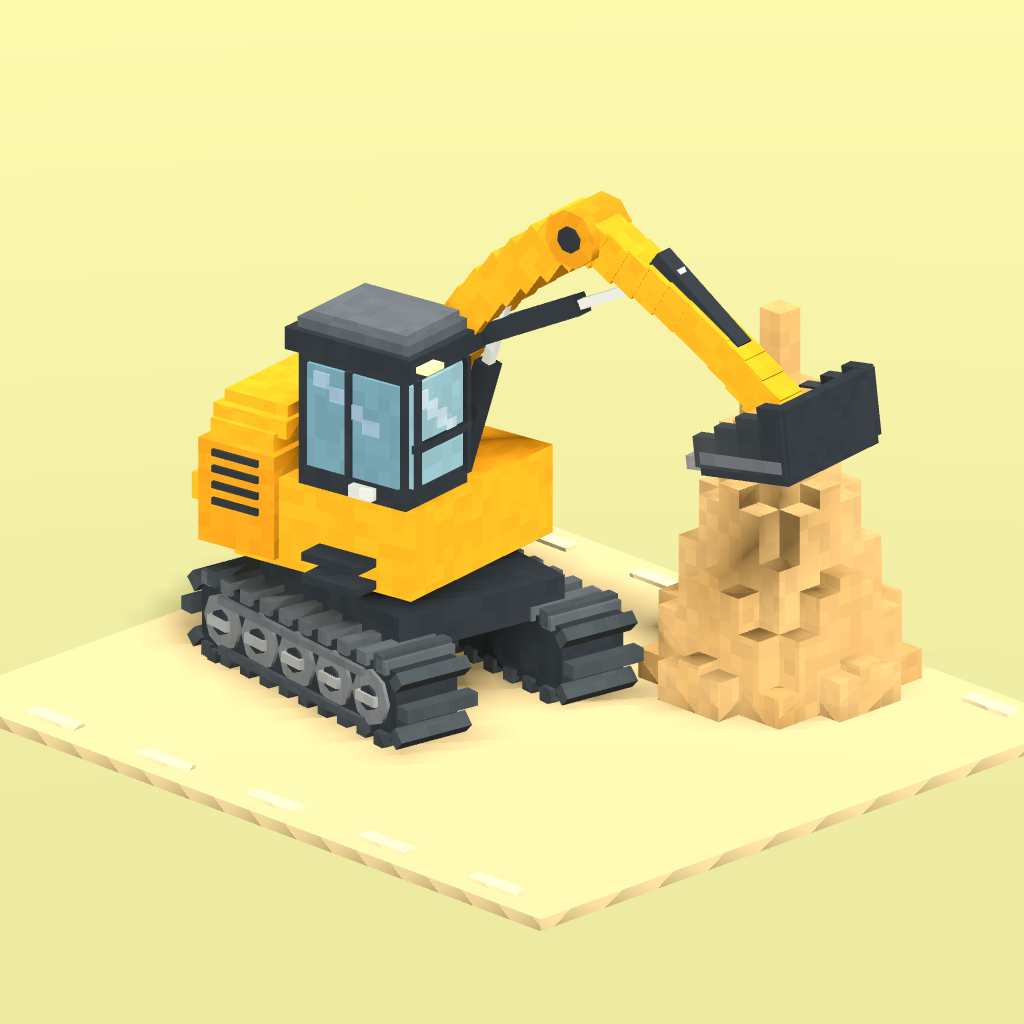
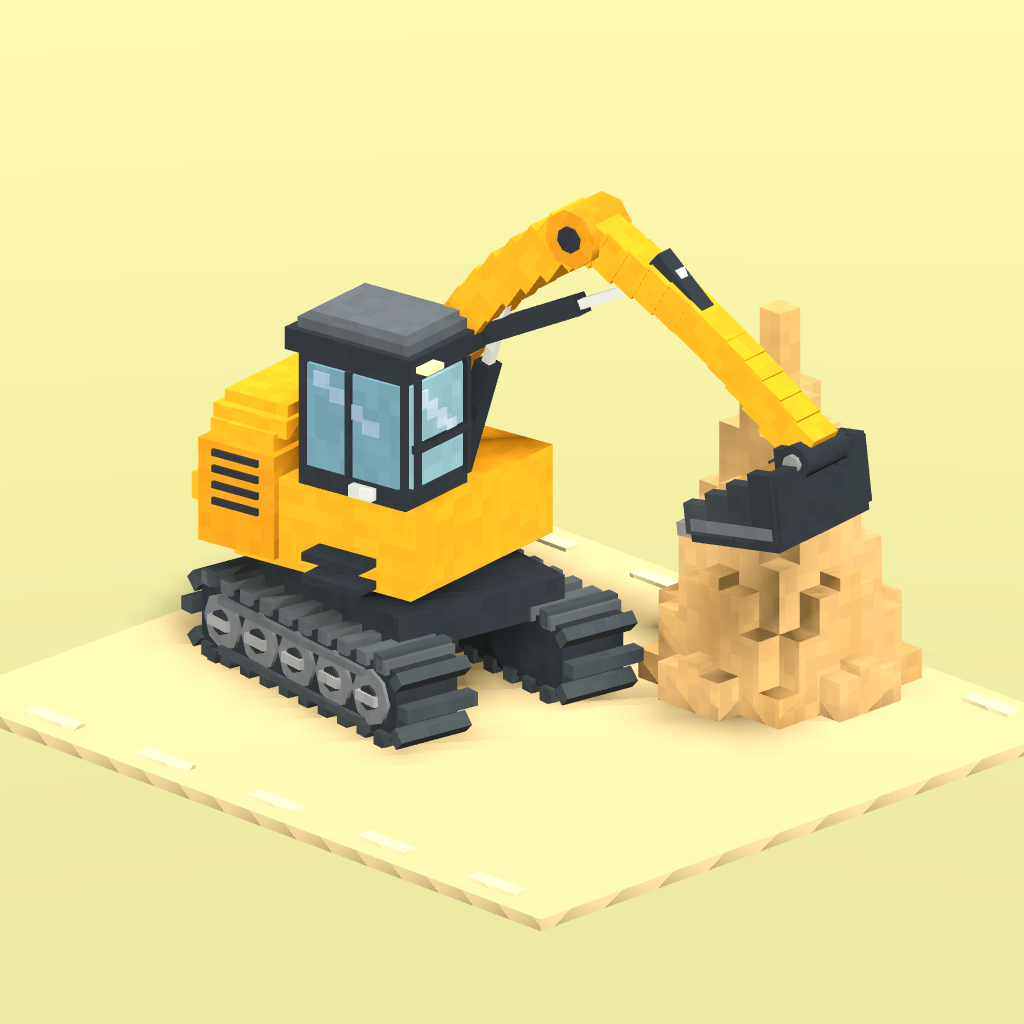
포크레인 버킷 연결축을 뒤쪽 상단으로 수정
버킷 바닥에 붙었던 암 연결을 상단 연결 귀와 핀으로 옮긴다. PC와 모바일 모델, 유압 연결, 날 위치 판정과 시작 자세를 함께 맞추고 메뉴 이미지를 갱신한다.

Changed region(s): [[0.625, 0.3438, 0.875, 0.7188], [0.6875, 0.2812, 0.75, 0.3438], [0.6562, 0.25, 0.6875, 0.2812]]

diff --git a/public/cab-view.js b/public/cab-view.js
@@ -97,10 +97,14 @@ export function createCabView(canvas, status) {
     const bucket=new THREE.Group();bucket.position.z=2.1;stick.add(bucket);
     function beam(parent,length,width,height,arch){for(let i=0;i<12;i++){const t=(i+.5)/12;box(parent,[width,height,length/12+.02],[0,Math.sin(t*Math.PI)*arch,t*length],paint);}}
     beam(boom,2.4,.35,.32,.28);beam(stick,2.1,.26,.28,.1);
-    box(bucket,[.95,.12,.7],[0,0,-.2],dark);box(bucket,[.95,.45,.1],[0,.23,.13],dark);
-    for(const side of [-1,1])box(bucket,[.1,.4,.7],[side*.45,.18,-.2],dark);
-    for(let i=0;i<4;i++)box(bucket,[.12,.09,.26],[-.33+i*.22,-.02,-.6],'#85868a');
-    const dirt=box(bucket,[.7,.27,.4],[0,.16,-.15],'#c29652');
+    const bowl=new THREE.Group();bowl.position.set(0,-.46,-.13);bucket.add(bowl);
+    for(const side of [-1,1])box(bucket,[.09,.19,.24],[side*.17,-.015,-.035],dark);
+    box(bucket,[.43,.12,.12],[0,0,0],'#858b91');
+    box(bucket,[.18,.12,.16],[0,.065,-.1],dark);
+    box(bowl,[.95,.12,.7],[0,0,-.2],dark);box(bowl,[.95,.45,.1],[0,.23,.13],dark);
+    for(const side of [-1,1])box(bowl,[.1,.4,.7],[side*.45,.18,-.2],dark);
+    for(let i=0;i<4;i++)box(bowl,[.12,.09,.26],[-.33+i*.22,-.02,-.6],'#85868a');
+    const dirt=box(bowl,[.7,.27,.4],[0,.16,-.15],'#c29652');
     dirt.userData.dynamic=true;
     batch(root);
     const model={root,upper,cab,boom,stick,bucket,dirt,paint,p,initialized:false};vehicles.set(p.id,model);return model;
@@ -154,7 +158,7 @@ export function createCabView(canvas, status) {
     renderer.render(scene,camera);canvas.dataset.frames=String(++frames);
     canvas.dataset.drawCalls=String(renderer.info.render.calls);
     // Evidence also lets the browser check that articulation matches server geometry.
-    const teeth=own.bucket.localToWorld(position.set(0,-.02,-.6));
+    const teeth=own.bucket.localToWorld(position.set(0,-.48,-.73));
     canvas.dataset.bucket=JSON.stringify([teeth.x,teeth.y,teeth.z]);
     canvas.dataset.camera=JSON.stringify([camera.position.x,camera.position.y,camera.position.z]);
   }
